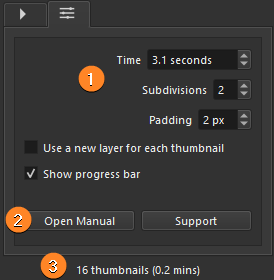
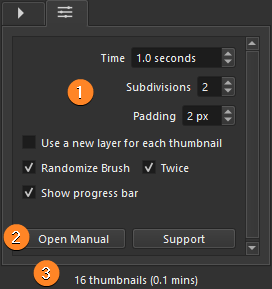
thumbnailer randomize options

diff --git a/content/articles/manuals/szk-krita-thumbnailer/index.md b/content/articles/manuals/szk-krita-thumbnailer/index.md
@@ -67,7 +67,7 @@ A new **docker** with the plugin will appear.
 
 
 # Usage
-{{< img_caption "tab1" >}}
+{{< img_caption "tab1.png" >}}
 
 {{< cell "1" >}} <u>**Select Previous/Next:**</u> Selects the previous/next thumbnail.
 
@@ -80,13 +80,21 @@ A new **docker** with the plugin will appear.
 
 # Options
 
-{{< img_caption "tab2" >}}
+{{< img_caption "tab2-steps.png" >}}
 
 {{< cell "1" >}} **Options**:
 - <u>**Time**</u>: Seconds for each thumbnail
 - <u>**Subdivisions**</u>: Times the canvas is split (vertically and horizontally) for each thumbnail.
 - <u>**Padding**</u>: Margin/separation for each thumbnail.
 - <u>**Use a new layer for each thumbnail**</u>: If true, it will create a new layer for every thumbnail. Useful if you want to keep each drawing in a separate layer.
+- <u>**Randomize Brush**</u>: If checked, when a thumbnail's time has finished, it will randomize the active brush presset.
+{{< box_info >}}
+This is for helping achieving a different result/"brushwork" (texture, shapes, etc) for the next thumbnail and experiment
+{{< /box_info >}}
+	- <u>**Twice**</u>: If checked, the brush will be randomized twice.
+{{< box_info >}}
+This is useful for having **2 different presets for each thumbnai**l (and alter them with *'Switch to Previous Preset'* shortcut).
+{{< /box_info >}}
 - <u>**Show progress bar**</u>: Shows a bar below that shows the time remaining for the current thumbnail.
 
 {{< cell "2" >}} <u>**Manual and Gumroad links**</u>

diff --git a/content/articles/manuals/szk-krita-thumbnailer/index.es.md b/content/articles/manuals/szk-krita-thumbnailer/index.es.md
@@ -97,6 +97,14 @@ Aparecerá un nuevo ***panel*** con el *plugin*.
 - <u>**Subdivisiones**</u>: Número total de divisiones en el que se divide el lienzo.
 - <u>***Padding***</u>: Margen de separación para cada *thumbnail*.
 - <u>**Use a new layer for each thumbnail**</u>: Si está seleccionado, se creará una nueva capa para cada miniatura.
+- <u>**Randomize Brush**</u>: Si está activa, al acabar cada *thumbnail* se seleccionará un pincel aleatorio.
+{{< box_info >}}
+Esto viene bien para ayudar a lograr un resultado diferente (textura, formas, etc.) en la próxima miniatura y experimentar.
+{{< /box_info >}}
+	- <u>**Dos veces (Twice)**</u>: Si está seleccionada, el pincel se *randomizará* 2 veces.
+{{< box_info >}}
+Esto es útil para tener **2 presets diferentes para cada miniatura** (y alterarlas con el atajo *'Switch to Previous Preset'*).
+{{< /box_info >}}
 - <u>**Show progress bar**</u>: Muestra una barra con el tiempo que queda para acabar la miniatura actual.
 
 {{< cell "2" >}} <u>**Links al Manual y a la página de Gumroad**</u>
